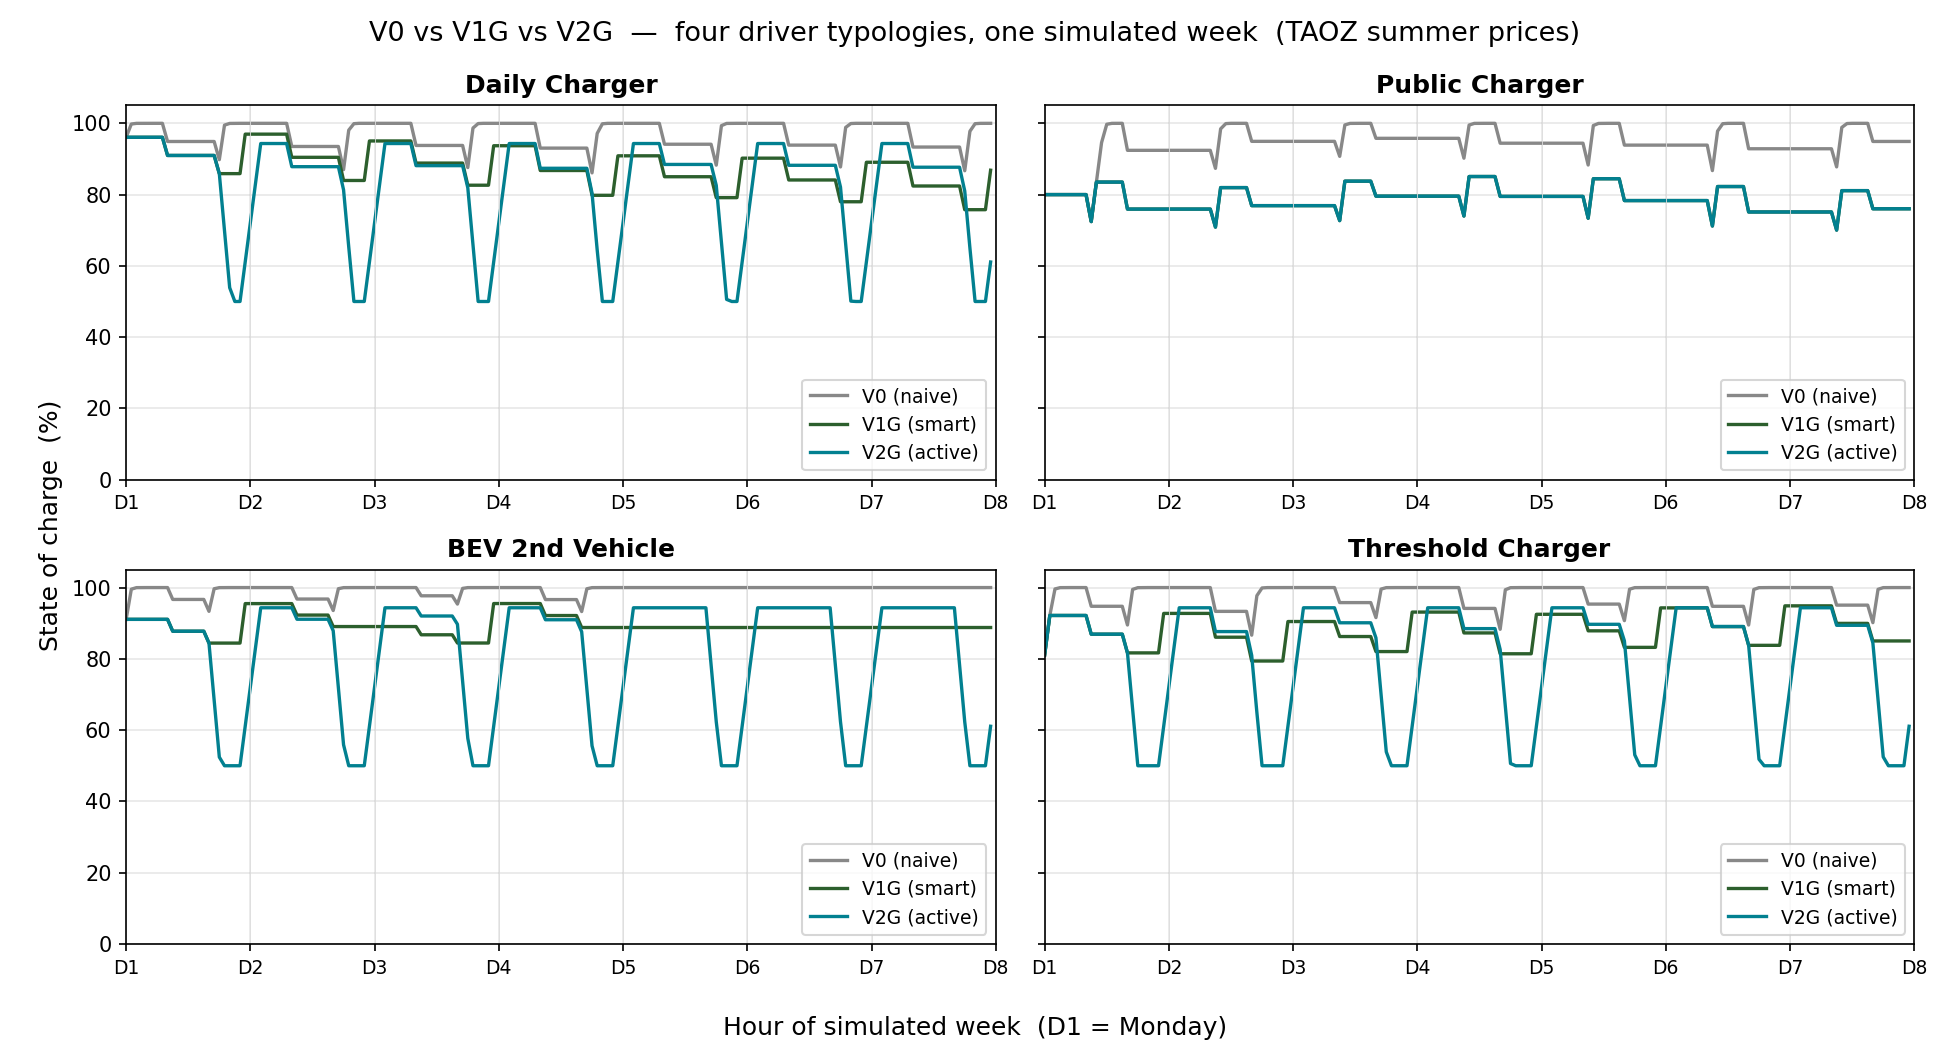
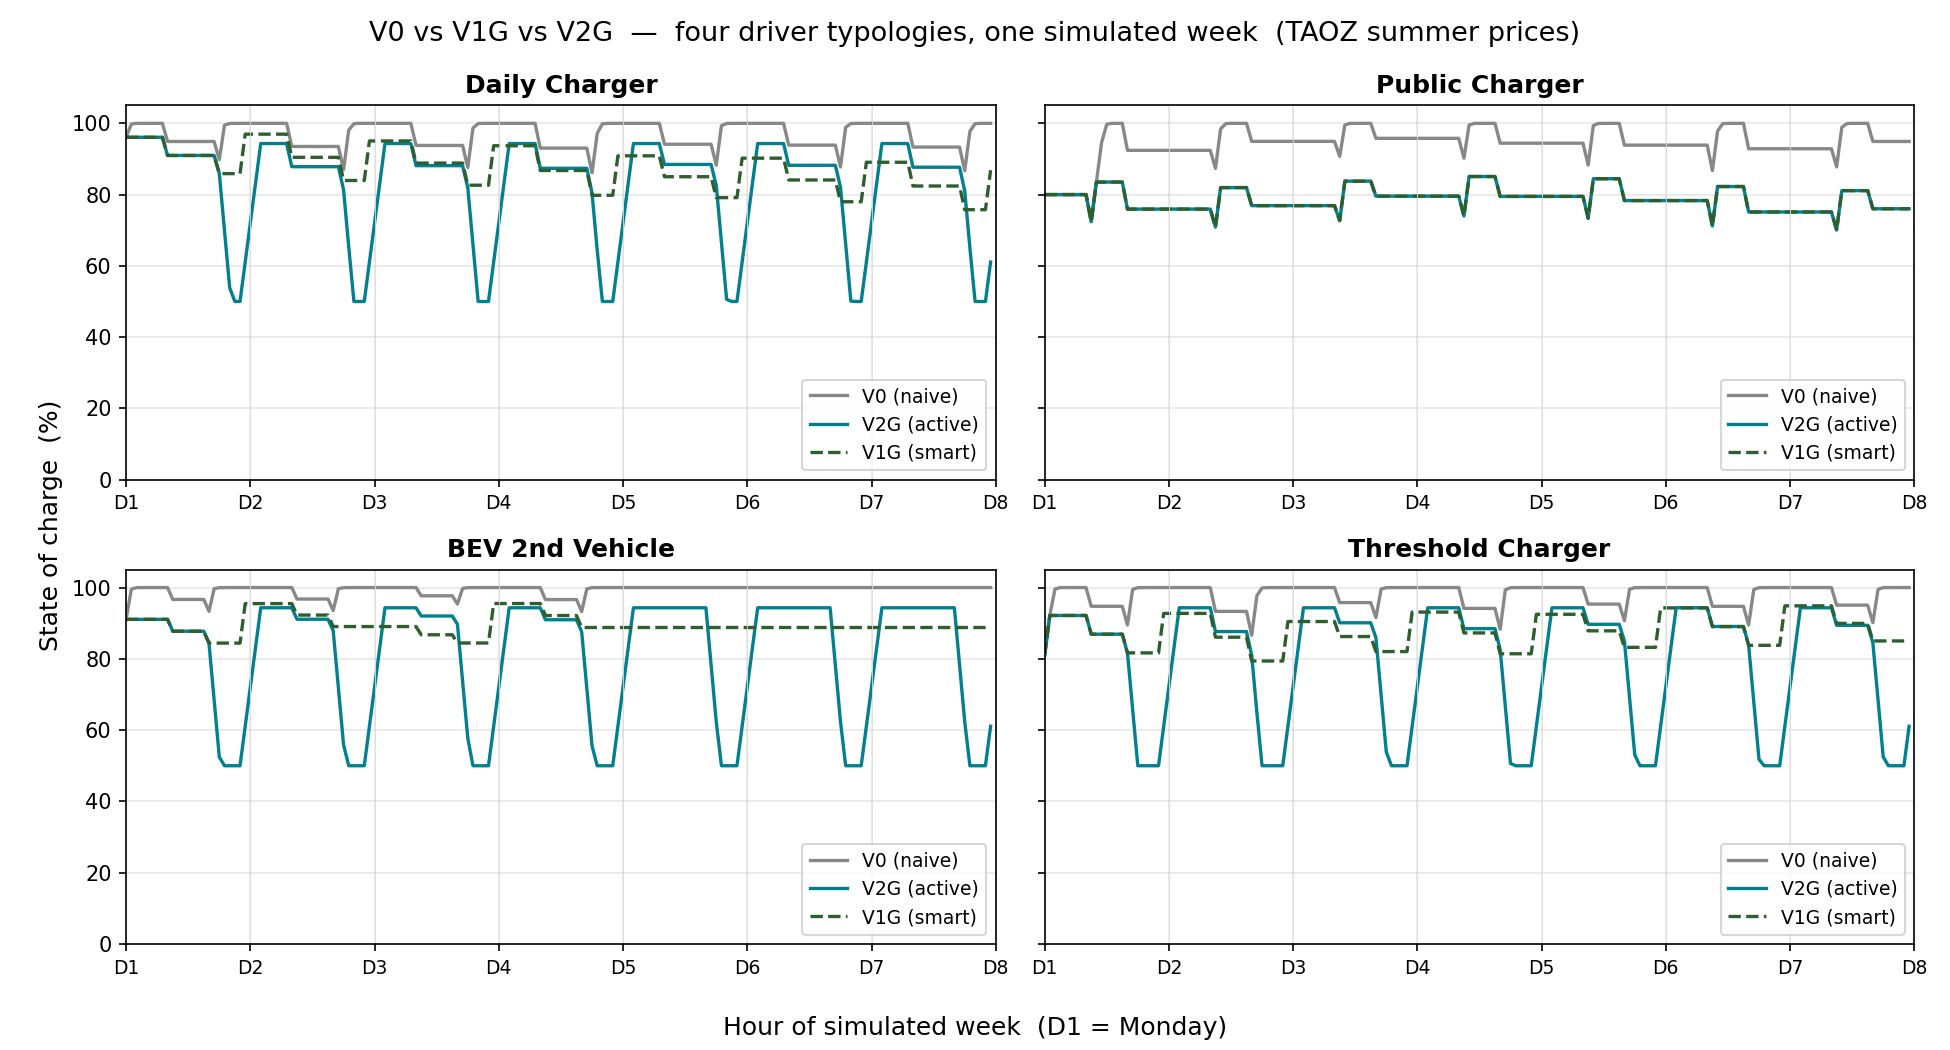
Batch 2.5 — fleet kWh chart + dashed V1G visible

diff --git a/src/plot_demo.py b/src/plot_demo.py
@@ -1,10 +1,15 @@
-"""W7 plot — 2×2 panel: four typologies, three counterfactuals each.
+"""W7 plot — three charts.
 
-Reads the 12 CSV files produced by run_demo.py and draws SoC vs hour for
-each (typology × counterfactual) combination. Layout is a 2×2 grid, one
-panel per typology, three coloured lines per panel (V0, V1G, V2G).
+  1. outputs/w7_soc_four_typologies.png
+       2×2 grid, one panel per typology, three counterfactual lines per
+       panel (V0 grey, V1G green dashed, V2G teal solid).
 
-Saves to outputs/w7_soc_four_typologies.png.
+  2. outputs/w7_fleet_kwh_stored.png
+       Single panel.  Sum of stored energy across all 4 typologies at each
+       hour, one line per counterfactual.  Shows how V2G repeatedly empties
+       the fleet during evening peaks.
+
+  3. outputs/w7_soc_three_counterfactuals.png  (legacy — Daily Charger only)
 
 Usage
 -----
@@ -38,6 +43,14 @@ COUNTERFACTUAL_LABELS = {
     COUNTERFACTUAL_V2G: "V2G (active)",
 }
 
+# Line styles — V1G is dashed so it shows through when it overlaps V2G
+# (which happens for typologies that can't actually V2G, like Public Charger).
+COUNTERFACTUAL_LINESTYLES = {
+    COUNTERFACTUAL_V0:  "-",
+    COUNTERFACTUAL_V1G: "--",
+    COUNTERFACTUAL_V2G: "-",
+}
+
 
 def slug(name: str) -> str:
     return name.lower().replace(" ", "_")
@@ -54,12 +67,87 @@ def read_soc_series(csv_path: Path) -> tuple[list[int], list[float]]:
     return hours, soc
 
 
+def read_full_log(csv_path: Path) -> list[dict]:
+    """Read every row of a CSV as a list of dicts."""
+    with csv_path.open() as f:
+        return list(csv.DictReader(f))
+
+
+def plot_fleet_kwh_stored() -> None:
+    """Chart 2 — total energy stored across the fleet (4 typologies summed).
+
+    One line per counterfactual.  Each line is the sum of (SoC × battery_kWh)
+    across all 4 typologies at each hour.  We approximate battery_kWh as a
+    constant 60 kWh per car because the W7 model gives every typology the
+    same battery size.
+    """
+    BATTERY_KWH_PER_CAR = 60.0
+    fig, ax = plt.subplots(figsize=(11, 5))
+
+    for cf in (COUNTERFACTUAL_V0, COUNTERFACTUAL_V2G, COUNTERFACTUAL_V1G):
+        per_typology_socs = []
+        for typology in ALL_TYPOLOGIES:
+            csv_path = OUTPUTS_DIR / f"{slug(typology)}_{cf.lower()}.csv"
+            if not csv_path.exists():
+                continue
+            rows = read_full_log(csv_path)
+            per_typology_socs.append([float(r["soc"]) for r in rows])
+
+        if not per_typology_socs:
+            continue
+
+        # Sum SoC across the 4 typologies hour-by-hour, then × battery size
+        n_hours = len(per_typology_socs[0])
+        fleet_kwh = []
+        for h in range(n_hours):
+            sum_soc = sum(s[h] for s in per_typology_socs)
+            fleet_kwh.append(sum_soc * BATTERY_KWH_PER_CAR)
+
+        ax.plot(
+            range(n_hours),
+            fleet_kwh,
+            label=COUNTERFACTUAL_LABELS[cf],
+            color=COUNTERFACTUAL_COLOURS[cf],
+            linestyle=COUNTERFACTUAL_LINESTYLES[cf],
+            linewidth=1.8,
+        )
+
+    # Day boundaries
+    for d in range(1, 8):
+        ax.axvline(d * 24, color="#DDDDDD", linewidth=0.5)
+
+    # Reference line: maximum possible (4 cars × 60 kWh × 100% SoC)
+    fleet_max = 4 * BATTERY_KWH_PER_CAR
+    ax.axhline(fleet_max, color="#BBBBBB", linewidth=0.6, linestyle=":",
+               label=f"Fleet maximum ({fleet_max:.0f} kWh)")
+
+    ax.set_xlabel("Hour of simulated week  (D1 = Monday)")
+    ax.set_ylabel("Total fleet energy stored  (kWh)")
+    ax.set_title(
+        "Fleet-level energy stored across all 4 typologies  —  V2G empties "
+        "the fleet every evening peak"
+    )
+    ax.set_xticks([d * 24 for d in range(8)])
+    ax.set_xticklabels([f"D{d}" for d in range(1, 9)])
+    ax.set_xlim(0, 168)
+    ax.set_ylim(0, fleet_max * 1.1)
+    ax.legend(loc="lower right", fontsize=10)
+    ax.grid(True, alpha=0.3)
+
+    out_path = OUTPUTS_DIR / "w7_fleet_kwh_stored.png"
+    fig.tight_layout()
+    fig.savefig(out_path, dpi=150)
+    print(f"Saved {out_path.relative_to(OUTPUTS_DIR.parent)}")
+
+
 def main() -> None:
     fig, axes = plt.subplots(2, 2, figsize=(13, 7), sharey=True)
     axes_flat = axes.flatten()
 
     for ax, typology in zip(axes_flat, ALL_TYPOLOGIES):
-        for cf in (COUNTERFACTUAL_V0, COUNTERFACTUAL_V1G, COUNTERFACTUAL_V2G):
+        # Plot order: V0 first, then V2G, then V1G last so the dashed
+        # green V1G line is visible on top wherever it coincides with V2G.
+        for cf in (COUNTERFACTUAL_V0, COUNTERFACTUAL_V2G, COUNTERFACTUAL_V1G):
             csv_path = OUTPUTS_DIR / f"{slug(typology)}_{cf.lower()}.csv"
             if not csv_path.exists():
                 continue
@@ -69,6 +157,7 @@ def main() -> None:
                 [s * 100 for s in soc],
                 label=COUNTERFACTUAL_LABELS[cf],
                 color=COUNTERFACTUAL_COLOURS[cf],
+                linestyle=COUNTERFACTUAL_LINESTYLES[cf],
                 linewidth=1.6,
             )
 
@@ -127,6 +216,9 @@ def main() -> None:
     fig_single.tight_layout()
     fig_single.savefig(out_path, dpi=150)
     print(f"Saved {out_path.relative_to(OUTPUTS_DIR.parent)}")
+
+    # Chart 3 — fleet kWh stored
+    plot_fleet_kwh_stored()
 
 
 if __name__ == "__main__":
